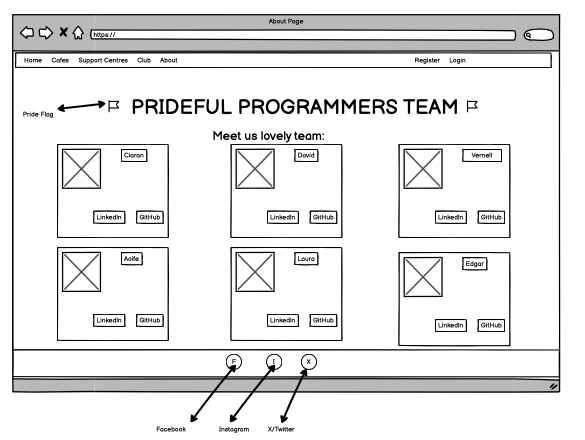
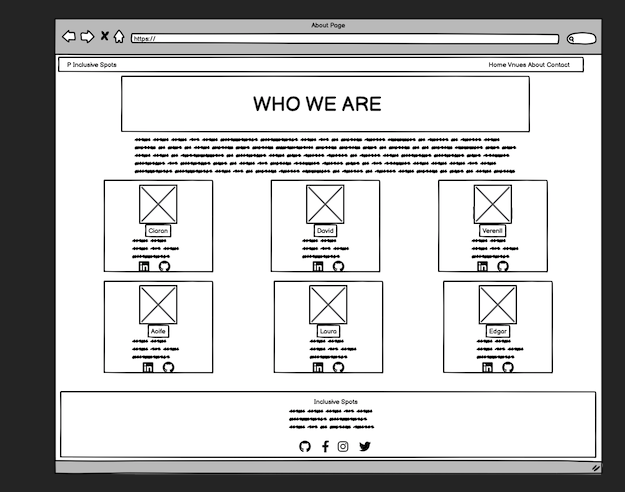
Add update wireframe to readme

diff --git a/README.md b/README.md
@@ -130,12 +130,16 @@ The Entity-Relationship Diagram (ERD) for our venue directory provides a structu
 
 ### Wireframes
 
-* I used [Balsamiq](https://balsamiq.com/wireframes) to design the wireframes for my website.
+* We used [Balsamiq](https://balsamiq.com/wireframes) to design the wireframes for us website.
 
 #### Desktop:
 <details>
 
 ![Desktop Home page](/documents/images/home-page.png)
+
+![Desktop About page](/documents/images/about-page.png)
+
+![Desktop Contact page](/documents/images/contact-page.png)
 
 ![Desktop Cafe page](/documents/images/cafe-page.png)
 
